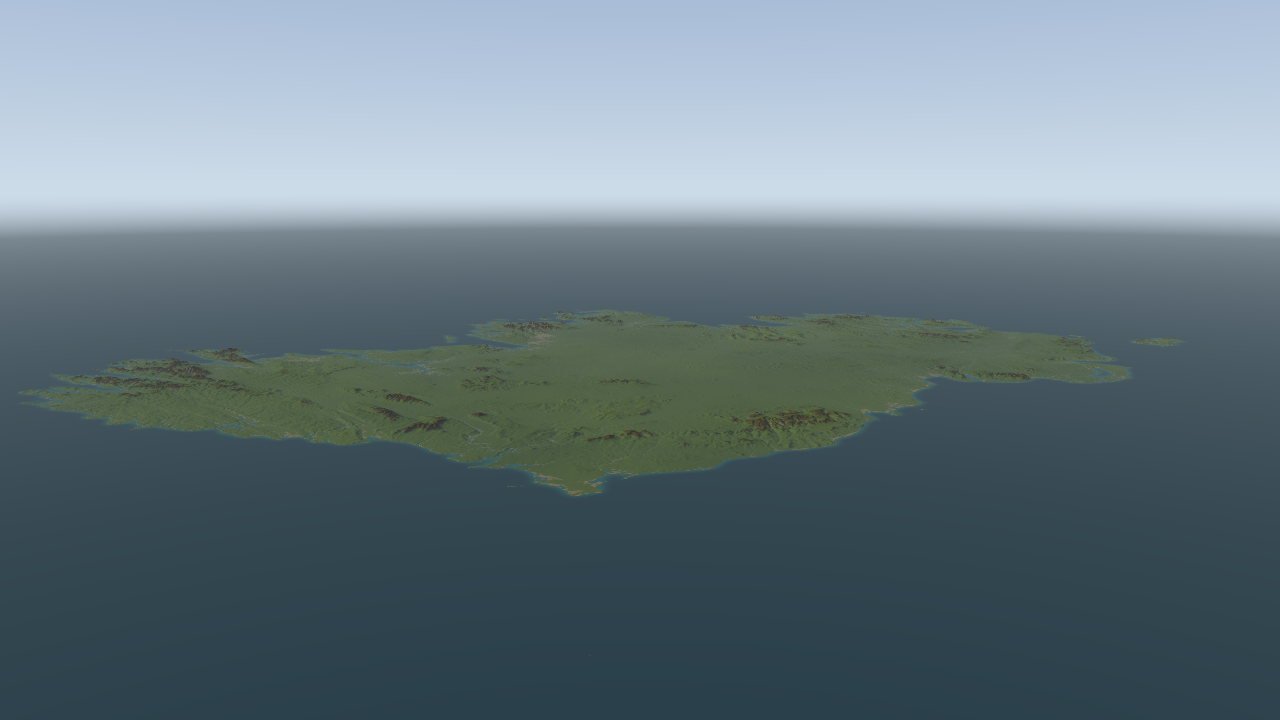
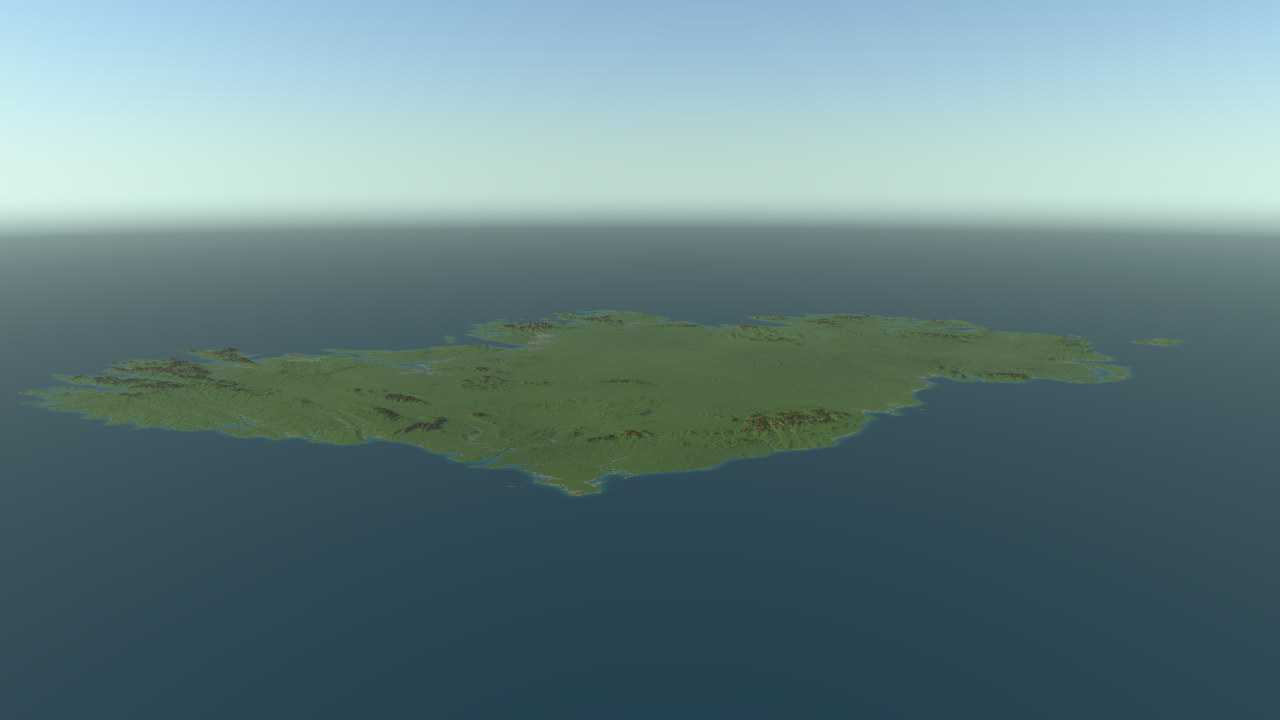
Add milestone 4 screenshot, controls and sky options to README

Changed region(s): [[0.0, 0.0, 0.125, 0.3056], [0.4062, 0.0, 0.7188, 0.0611], [0.4688, 0.2444, 0.5938, 0.275]]

diff --git a/README.md b/README.md
@@ -6,14 +6,14 @@ A real-time terrain renderer of Ireland, written in C++17 and modern shader-base
 
 > **Work in progress.** This is a ground-up rebuild of my Year 4 Computer Graphics final project at Trinity College Dublin, *Toward a Futuristic Emerald Isle*. The original used legacy fixed-function OpenGL; this version is built on a programmable pipeline, runs on macOS, Windows and Linux, and implements the features the original only approximated.
 
-![MacGillycuddy's Reeks, Kerry, from the east, with per-pixel lighting, blended materials and height fog (--view kerry)](docs/images/hero.png)
+![MacGillycuddy's Reeks, Kerry, from the east, with blended materials, sky lighting and height fog (--view kerry)](docs/images/hero.png)
 
 ## Roadmap
 
 - [x] **1. Foundations:** cross-platform build, OpenGL 3.3 core context, shader loading, FPS display, CI
 - [x] **2. Terrain:** mesh generated from an Ireland heightmap, with per-vertex normals and directional lighting
 - [x] **3. Surface materials:** grass, rock and sand blended by height and slope
-- [ ] **4. Sky and camera:** cubemap sky and a free-fly camera
+- [x] **4. Sky and camera:** cubemap sky and a free-fly camera
 - [ ] **5. Infinite world:** terrain chunks streamed around the camera, with level of detail
 - [ ] **6. Shadows:** shadow mapping from a moving sun, with a day/night cycle
 - [ ] **7. Water:** planar reflections and animated waves
@@ -23,9 +23,11 @@ A real-time terrain renderer of Ireland, written in C++17 and modern shader-base
 
 ## Screenshots
 
-Each image is reproducible with `--view <name> --screenshot <file>`.
+Each image is reproducible with `--view <name> --screenshot <file>`, plus the sun options where shown.
 
-![Milestone 3: the whole island from the south-east with blended materials, low south-west sun and height fog (--view overview)](docs/images/milestone-03.png)
+![Milestone 4: low sun over Dingle Bay from the Glenbeigh hills, with the atmospheric sky and sun glint (--view glenbeigh --sun-bearing 290 --sun-elevation 4)](docs/images/milestone-04.png)
+
+![The whole island from the south-east (--view overview)](docs/images/milestone-03.png)
 
 ## Building
 
@@ -58,9 +60,29 @@ build\Release\emerald-isle.exe       # Windows (Visual Studio generator)
 | `--frames <n>` | Exit after rendering *n* frames |
 | `--screenshot <file>` | Save the final frame as a PNG, then exit |
 | `--terrain-step <n>` | Use every *n*th heightmap pixel (default 2); higher is faster |
-| `--view <name>` | Fixed camera preset instead of the orbit: `overview`, `kerry`, `wicklow`, `glenbeigh` |
+| `--view <name>` | Start in free-fly at a preset pose instead of the orbit: `overview`, `kerry`, `wicklow`, `glenbeigh` |
+| `--sun-bearing <deg>` | Sun compass bearing, 0 = north (default 225, south-west) |
+| `--sun-elevation <deg>` | Sun elevation above the horizon (default 22) |
 
-The window title shows the averaged frame rate and frame time. Press **Esc** to quit.
+The window title shows the averaged frame rate and frame time.
+
+### Controls
+
+| Key | Action |
+|---|---|
+| **W** / **S** | Fly forward / back |
+| **A** / **D** | Strafe left / right |
+| **Q** / **E** | Down / up |
+| **←** / **→**, **↑** / **↓** | Turn, pitch |
+| Right mouse button + drag | Look around |
+| **Tab** | Capture the cursor for mouse look (press again to release) |
+| **Shift** | Move 5× faster |
+| Scroll wheel | Change base speed (×1.25 per notch) |
+| **C** | Switch between free-fly and orbit around the point in view |
+| **P** | Print the camera pose as a `--view` preset line for `src/render/ViewPresets.cpp` |
+| **Esc** | Quit |
+
+Without `--view` the app starts in a slow orbit of the island; press **C** to take control. The camera stays at least 30 m above the ground and sea.
 
 ## Project structure
 
